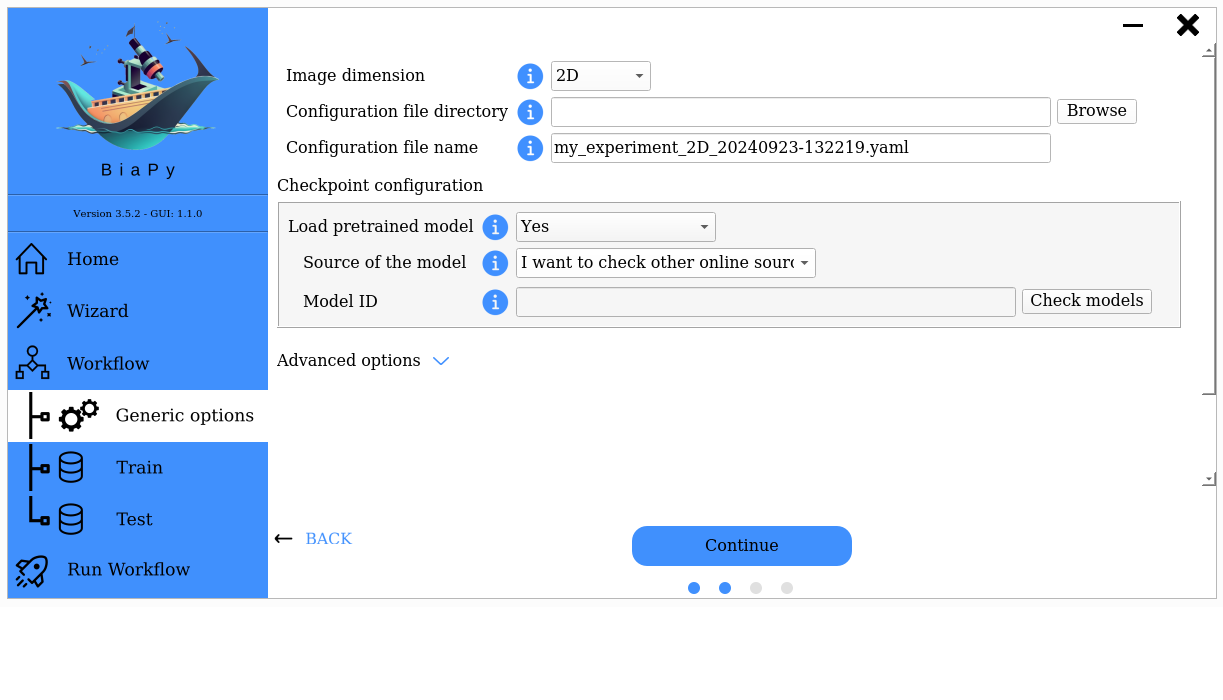
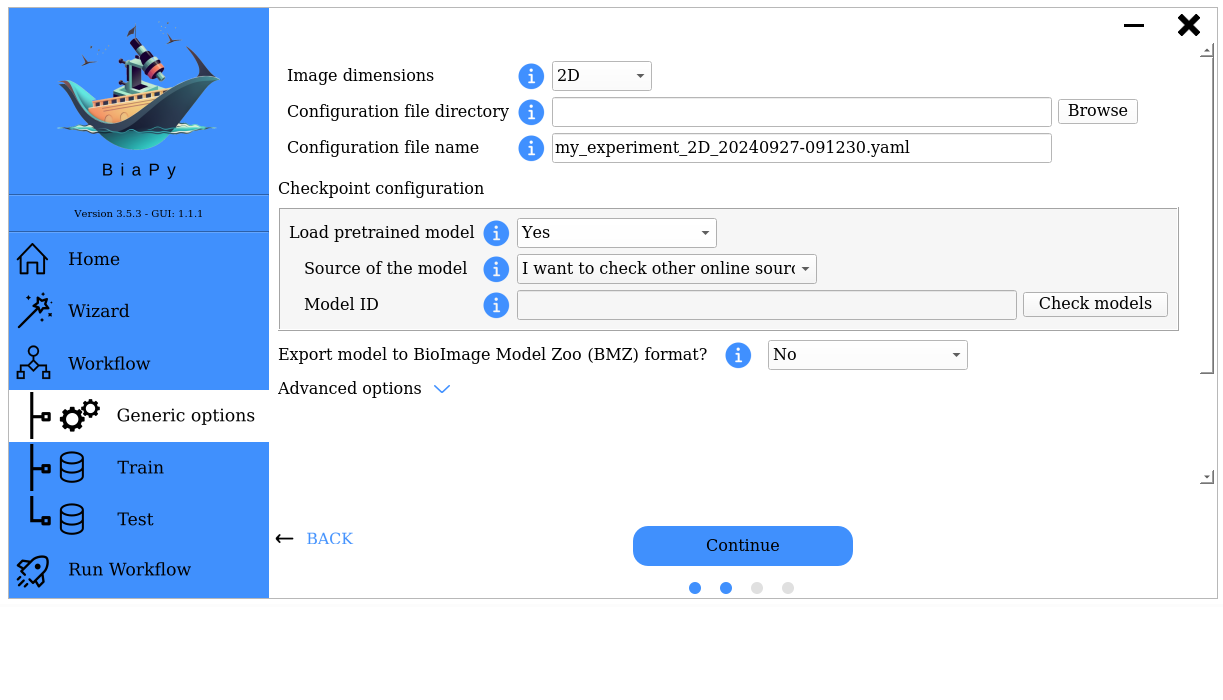
Update BMZ page adding model export through the GUI

diff --git a/source/get_started/bmz.rst b/source/get_started/bmz.rst
@@ -6,9 +6,9 @@ BiaPy is a Community Partner of the `BioImage Model Zoo (BMZ) <https://bioimage.
 Graphical user interface
 ~~~~~~~~~~~~~~~~~~~~~~~~
 
-Through the graphical user interface there are two places where you can check which models are compatible. 
+Through the graphical user interface there are two places where you can check which models are compatible and **import** them.  
 
-* Through the Wizard, after answering the first two questions where the user selects the workflow to execute and the image dimensions to work with, they will reach the "Model source" question. Here, they can choose the third option, "Yes, I want to check if there is a pretrained model I can use," which will activate a subsequent question to check for pretrained models, including those from the BioImage Model Zoo. At this point, the user should click the "Check models" button to begin searching for models compatible with BiaPy. This process requires an internet connection and may take a few minutes. Once completed, a new window will display the models available for use in BiaPy, based on the selected workflow and image dimensions. See below the steps you need to follow:
+* **Through the Wizard**, after answering the first two questions where the user selects the workflow to execute and the image dimensions to work with, they will reach the **"Model source"** question. Here, they can choose the third option, **"Yes, I want to check if there is a pretrained model I can use"**, which will activate a subsequent question to check for pretrained models, including those from the BioImage Model Zoo. At this point, the user should click the **"Check models"** button to begin searching for models compatible with BiaPy. This process requires an internet connection and may take a few minutes. Once completed, a **new window** will display the models available for use in BiaPy, based on the selected workflow and image dimensions. See below the steps you need to follow:
 
 .. carousel::
     :show_controls:
@@ -28,7 +28,7 @@ Through the graphical user interface there are two places where you can check wh
 
     .. image:: ../img/bmz/bmz_gui_step6.png
 
-* Outside of the Wizard, you can choose a pretrained BMZ model in the "Generic options" screen. To do this, select "Yes" for the "Load pretrained model" question, then choose "I want to check other online sources" under "Source of the model." This will activate the "Model ID" option, where you will see a button labeled "Check models." Clicking this button, similar to the Wizard, will begin the search for models compatible with BiaPy. This process requires an internet connection and may take a few minutes. Once complete, a new window will show the models available for use in BiaPy based on the selected workflow and image dimensions. Follow the steps below to proceed:
+* **Outside of the Wizard**, you can choose a pretrained BMZ model in the **"Generic options"** screen. To do this, select **"Yes"** for the **"Load pretrained model"** question, then choose **"I want to check other online sources"** under **"Source of the model"**. This will activate the **"Model ID"** option, where you will see a button labeled **"Check models"**. Clicking this button, similar to the Wizard, will begin the search for models compatible with BiaPy. This process requires an internet connection and may take a few minutes. Once complete, a **new window** will show the models available for use in BiaPy based on the selected workflow and image dimensions. Follow the steps below to proceed:
 
 .. carousel::
     :show_controls:
@@ -40,9 +40,30 @@ Through the graphical user interface there are two places where you can check wh
 
     .. image:: ../img/bmz/bmz_gui_no_wizard_step2.png
 
+Since the Wizard is designed for users without a background in computer science or deep learning, the option to export models in BMZ format is intentionally not included. However, BMZ model exportation is supported through the GUI. To access it, navigate to the **"Generic Options"** screen, you can enable this by selecting **"Yes"** for the question **"Export model to BioImage Model Zoo (BMZ) format?"**. Once selected, you have two options:
 
-.. note:: 
-    Currently BMZ model exportation is not supported through the GUI. However, you can use Jupyter Notebooks or command line as described below. 
+#. Provide the necessary information to export the model manually.
+
+#. If you are using an existing BMZ model, its data can be utilized to create a new model. To enable this, set **"Loading pretrained model"** to **"Yes"** and **"Source of the model"** to **"I want to check other online sources"**. Then, select a BMZ model. After this, the option "**Reuse BMZ model configuration"** will appear, allowing you to choose this feature.
+
+The following options are available in the GUI:
+
+.. carousel::
+    :show_controls:
+    :show_captions_below:
+    :data-bs-interval: false
+    :show_indicators:
+    :show_dark:
+
+    .. figure:: ../img/bmz/bmz_gui_no_wizard_export_opt1.png
+
+        Option 1) Provide the necessary information manually
+
+    .. figure:: ../img/bmz/bmz_gui_no_wizard_export_opt2.png
+
+        Option 2) Reuse BMZ model data
+
+After running the workflow and completing the training and/or testing phases, a ZIP file containing the model in BMZ format will be generated. This file will be saved in the results folder, within a directory named **"BMZ_files"**. The file path will also be displayed in the running window.
 
 Jupyter notebooks 
 ~~~~~~~~~~~~~~~~~
@@ -104,3 +125,5 @@ If the model you used was previously imported from BMZ you would have the option
 
     # Create a dict with all BMZ requirements
     biapy.export_model_to_bmz(output_path, reuse_original_bmz_config=True)
+
+Apart from the options above, you can also configure all required variables through the YAML file. You can have a look to these variables `here <https://github.com/BiaPyX/BiaPy-GUI/blob/49fd4c0116bd8d0414e6a579bb6d98a7acf90d8b/biapy/biapy_config.py#L726>`__. 
